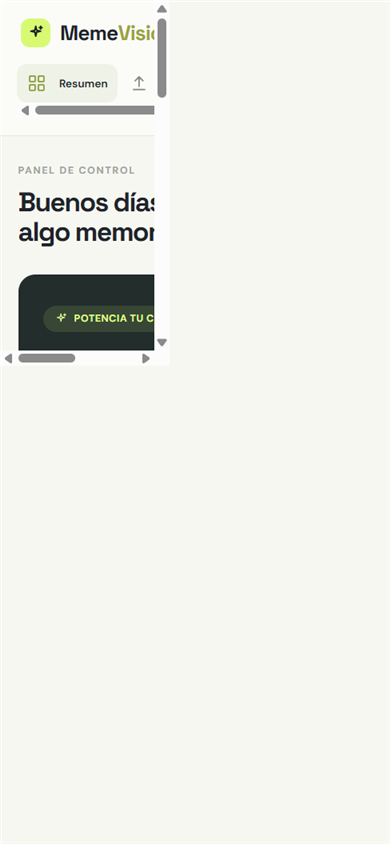
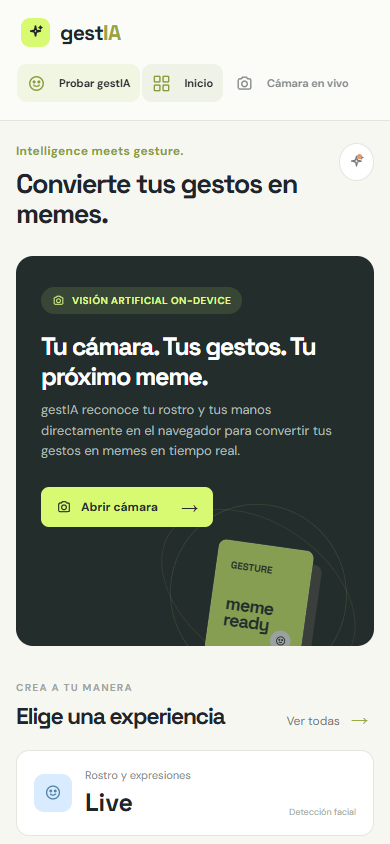
feat(front): rebrand a gestIA y switch de puntos
Renombra la app y el slogan, prioriza Probar gestIA en el menu y agrega el switch de landmarks de mano y rostro.

Regenera las capturas del manifest para la instalacion de la PWA.

diff --git a/src/main.ts b/src/main.ts
@@ -81,20 +81,20 @@ const icon = (name: string) => {
 document.querySelector<HTMLDivElement>('#app')!.innerHTML = `
 <div class="app-shell">
   <aside class="sidebar">
-    <a class="brand" href="#" aria-label="Meme Vision inicio"><span class="brand-mark">${icon('spark')}</span><span>Meme<span>Vision</span></span></a>
-    <p class="menu-label">Explora MemeVision</p>
+    <a class="brand" href="#" aria-label="gestIA inicio"><span class="brand-mark">${icon('spark')}</span><span>gest<span>IA</span></span></a>
+    <p class="menu-label">Explora gestIA</p>
     <nav class="main-nav" aria-label="Navegación principal">
+      <a class="nav-item destacado" href="#" id="nav-gestos">${icon('face')} <span>Probar gestIA</span></a>
       <a class="nav-item active" href="#">${icon('grid')} <span>Inicio</span></a>
       <a class="nav-item" href="#" id="nav-camara">${icon('camera')} <span>Cámara en vivo</span></a>
-      <a class="nav-item" href="#" id="nav-gestos">${icon('face')} <span>Gestos y filtros</span></a>
       <a class="nav-item" href="#">${icon('challenge')} <span>Desafíos</span></a>
       <a class="nav-item" href="#">${icon('images')} <span>Mis creaciones</span></a>
     </nav>
     <div class="sidebar-bottom"><a class="nav-item" href="#">${icon('settings')} <span>Configuración</span></a><div class="profile"><span class="avatar">NV</span><span><strong>Nuevo usuario</strong><small>Plan gratuito</small></span><span class="more">•••</span></div></div>
   </aside>
   <main class="content">
-    <header class="topbar"><div><p class="eyebrow">Tu espacio creativo</p><h1>Convierte tus gestos en memes.</h1></div><button class="notification" aria-label="Notificaciones">${icon('spark')}<span></span></button></header>
-    <section class="hero-panel"><div class="hero-copy"><span class="pill">${icon('camera')} Visión artificial on-device</span><h2>Tu cámara. Tus gestos. Tu próximo meme.</h2><p>MemeVision reconoce tu rostro, manos y cuerpo directamente en el navegador para crear experiencias en tiempo real.</p><button class="primary-button" id="btn-abrir-camara">${icon('camera')} Abrir cámara <span>→</span></button></div><div class="hero-art" aria-hidden="true"><div class="art-ring ring-one"></div><div class="art-ring ring-two"></div><div class="art-card"><span>GESTURE</span><strong>meme<br>ready</strong><i>${icon('face')}</i></div></div></section>
+    <header class="topbar"><div><p class="eyebrow slogan">Intelligence meets gesture.</p><h1>Convierte tus gestos en memes.</h1></div><button class="notification" aria-label="Notificaciones">${icon('spark')}<span></span></button></header>
+    <section class="hero-panel"><div class="hero-copy"><span class="pill">${icon('camera')} Visión artificial on-device</span><h2>Tu cámara. Tus gestos. Tu próximo meme.</h2><p>gestIA reconoce tu rostro y tus manos directamente en el navegador para convertir tus gestos en memes en tiempo real.</p><button class="primary-button" id="btn-abrir-camara">${icon('camera')} Abrir cámara <span>→</span></button></div><div class="hero-art" aria-hidden="true"><div class="art-ring ring-one"></div><div class="art-ring ring-two"></div><div class="art-card"><span>GESTURE</span><strong>meme<br>ready</strong><i>${icon('face')}</i></div></div></section>
     <section class="section-heading"><div><p class="eyebrow">Crea a tu manera</p><h2>Elige una experiencia</h2></div><button class="ghost-button">Ver todas <span>→</span></button></section>
     <section class="stat-grid"><article class="stat-card"><span class="stat-icon blue">${icon('face')}</span><div><small>Rostro y expresiones</small><strong>Live</strong></div><span class="stat-note">Detección facial</span></article><article class="stat-card"><span class="stat-icon yellow">${icon('challenge')}</span><div><small>Desafíos activos</small><strong>03</strong></div><span class="stat-note">Para explorar</span></article><article class="stat-card"><span class="stat-icon coral">${icon('images')}</span><div><small>Mis creaciones</small><strong id="contador-creaciones">0</strong></div><span class="stat-note" id="nota-creaciones">Aún no hay datos</span></article></section>
     <section class="empty-panel"><div class="empty-icon">${icon('camera')}</div><h2>Tu cámara es el punto de partida</h2><p>Activa una experiencia y deja que tus movimientos hagan el resto.</p><button class="secondary-button">${icon('challenge')} Explorar experiencias</button></section>
@@ -208,7 +208,11 @@ document.querySelector<HTMLDivElement>('#app')!.innerHTML = `
       <div class="gestos-acciones">
         <button type="button" id="btn-iniciar-gestos" class="primary-button">Activar cámara</button>
         <button type="button" id="btn-cambiar-gestos" class="secondary-button oculta">⇄ Cambiar cámara</button>
-        <button type="button" id="btn-debug-gestos" class="secondary-button">Puntos</button>
+        <label class="switch" for="switch-puntos" title="Mostrar puntos de mano y rostro">
+          <input type="checkbox" id="switch-puntos" role="switch" aria-label="Mostrar puntos de mano y rostro" />
+          <span class="switch-track" aria-hidden="true"></span>
+          <span class="switch-texto">Puntos</span>
+        </label>
       </div>
     </aside>
   </div>
@@ -216,7 +220,7 @@ document.querySelector<HTMLDivElement>('#app')!.innerHTML = `
 `
 
 // ---------------------------------------------------------------------------
-// Sesión 22 — IndexedDB + Web Crypto aplicados a MemeVision: las creaciones
+// Sesión 22 — IndexedDB + Web Crypto aplicados a gestIA: las creaciones
 // viven en IndexedDB y la nota privada se cifra con una clave derivada de la
 // contraseña del usuario (PBKDF2 + AES-GCM).
 let db: IDBDatabase
@@ -467,7 +471,7 @@ formCreacionEl.addEventListener('submit', async (evento) => {
 })
 
 // ---------------------------------------------------------------------------
-// Sesión 24 — cámara, micrófono y ubicación aplicados a MemeVision.
+// Sesión 24 — cámara, micrófono y ubicación aplicados a gestIA.
 // Un único <dialog> de cámara compartido y un solo flujo abierto a la vez.
 function setEstadoCamara(texto: string) {
   camaraEstadoEl.textContent = texto

diff --git a/src/style.css b/src/style.css
@@ -13,11 +13,15 @@ button { cursor: pointer; }
 .brand-mark { width: 29px; height: 29px; display: grid; place-items: center; border-radius: 9px; color: #1e2524; background: var(--lime); }
 .brand-mark .ui-icon { width: 17px; height: 17px; stroke-width: 2.2; }
 .menu-label, .eyebrow { color: #a0a49d; font-size: 10px; font-weight: 700; letter-spacing: 1.3px; text-transform: uppercase; }
+.eyebrow.slogan { color: #899b38; font-size: 12px; letter-spacing: .3px; text-transform: none; }
 .menu-label { margin: 56px 12px 13px; }
 .main-nav { display: grid; gap: 5px; }
 .nav-item { display: flex; align-items: center; gap: 13px; min-height: 45px; padding: 0 13px; border-radius: 10px; color: #858b8a; font-size: 13px; font-weight: 600; text-decoration: none; transition: color .2s, background .2s; }
 .nav-item:hover, .nav-item.active { color: var(--ink); background: #eef2e7; }
 .nav-item.active .ui-icon { color: #899b38; }
+.nav-item.destacado { color: var(--ink); background: #f1f6e2; }
+.nav-item.destacado .ui-icon { color: #899b38; }
+.nav-item.destacado:hover { background: #e9f2d4; }
 .sidebar-bottom { margin-top: auto; display: grid; gap: 25px; }
 .profile { display: flex; align-items: center; gap: 10px; padding: 16px 5px 0; border-top: 1px solid var(--line); }
 .avatar { display: grid; place-items: center; width: 31px; height: 31px; border-radius: 50%; color: #57652d; background: #e2efb7; font-size: 10px; font-weight: 700; }
@@ -193,8 +197,15 @@ h2 { margin-bottom: 0; font-size: 23px; line-height: 1.2; }
 .gestos-confianza span { display: block; width: 0; height: 100%; border-radius: inherit; background: var(--lime); transition: width .12s linear; }
 .gestos-estado { min-height: 16px; margin: 0; color: #6b7280; font-size: 11px; line-height: 1.5; }
 .gestos-acciones { display: flex; flex-wrap: wrap; gap: 8px; }
-.gestos-acciones .primary-button, .gestos-acciones .secondary-button { flex: 1 1 120px; justify-content: center; }
-#btn-debug-gestos[aria-pressed="true"] { color: #fff; background: #20252b; }
+.gestos-acciones .primary-button, .gestos-acciones .secondary-button, .gestos-acciones .switch { flex: 1 1 120px; justify-content: center; }
+.switch { position: relative; display: inline-flex; align-items: center; gap: 9px; padding: 9px 12px; border: 1px solid var(--line); border-radius: 9px; color: #555; background: #fff; font-size: 12px; font-weight: 700; cursor: pointer; user-select: none; }
+.switch input { position: absolute; width: 1px; height: 1px; opacity: 0; pointer-events: none; }
+.switch-track { position: relative; flex: 0 0 auto; width: 36px; height: 20px; border-radius: 999px; background: #e3e5df; transition: background .18s; }
+.switch-track::after { content: ''; position: absolute; top: 2px; left: 2px; width: 16px; height: 16px; border-radius: 50%; background: #fff; box-shadow: 0 1px 3px rgba(0, 0, 0, .2); transition: transform .18s, background .18s; }
+.switch input:checked + .switch-track { background: var(--lime); }
+.switch input:checked + .switch-track::after { transform: translateX(16px); background: #20252b; }
+.switch input:focus-visible + .switch-track { outline: 2px solid #9aa43c; outline-offset: 2px; }
+.switch-texto { line-height: 1; }
 
 @media (max-width: 760px) {
   .gestos-layout { grid-template-columns: 1fr; }

diff --git a/src/vision/ui-gestos.ts b/src/vision/ui-gestos.ts
@@ -33,7 +33,7 @@ export function montarGestos(): ControlGestos {
   const btnCerrar = document.querySelector<HTMLButtonElement>('#btn-cerrar-gestos')!
   const btnIniciar = document.querySelector<HTMLButtonElement>('#btn-iniciar-gestos')!
   const btnCambiar = document.querySelector<HTMLButtonElement>('#btn-cambiar-gestos')!
-  const btnDebug = document.querySelector<HTMLButtonElement>('#btn-debug-gestos')!
+  const switchPuntos = document.querySelector<HTMLInputElement>('#switch-puntos')!
   const ctx = lienzo.getContext('2d')!
 
   let stream: MediaStream | null = null
@@ -49,7 +49,7 @@ export function montarGestos(): ControlGestos {
   precargarMemes()
   meme.src = urlMeme('ninguno')
   etiquetaEl.dataset.gesto = 'ninguno'
-  btnDebug.setAttribute('aria-pressed', 'false')
+  switchPuntos.checked = false
 
   async function abrir(): Promise<void> {
     if (dlg.open) return
@@ -268,9 +268,8 @@ export function montarGestos(): ControlGestos {
     detenerCamara()
     await iniciarCamara()
   })
-  btnDebug.addEventListener('click', () => {
-    debug = !debug
-    btnDebug.setAttribute('aria-pressed', String(debug))
+  switchPuntos.addEventListener('change', () => {
+    debug = switchPuntos.checked
     if (!debug) ctx.clearRect(0, 0, lienzo.width, lienzo.height)
   })
 

diff --git a/index.html b/index.html
@@ -6,7 +6,7 @@
     <link rel="manifest" href="/manifest.json" />
     <meta name="viewport" content="width=device-width, initial-scale=1.0" />
     <meta name="theme-color" content="#f7f7f2" />
-    <title>Meme Vision | Panel</title>
+    <title>gestIA | Intelligence meets gesture</title>
   </head>
   <body>
     <div id="app"></div>
